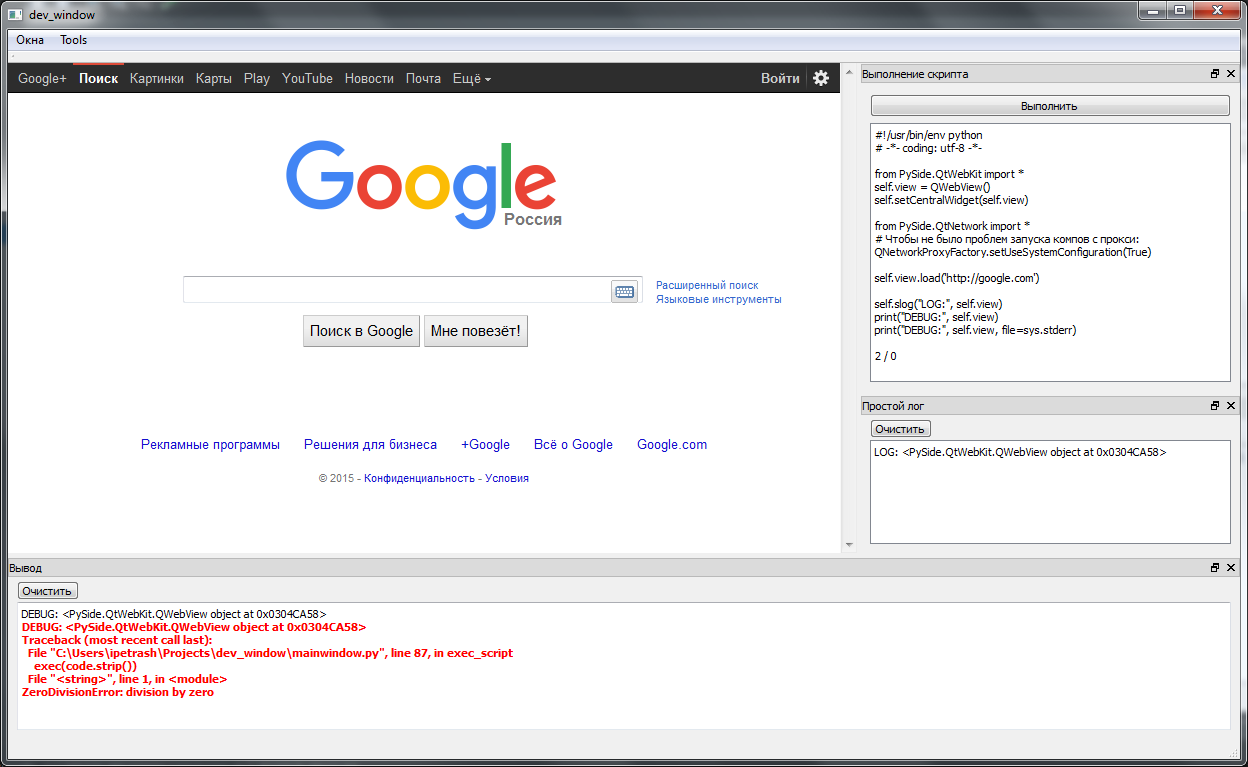
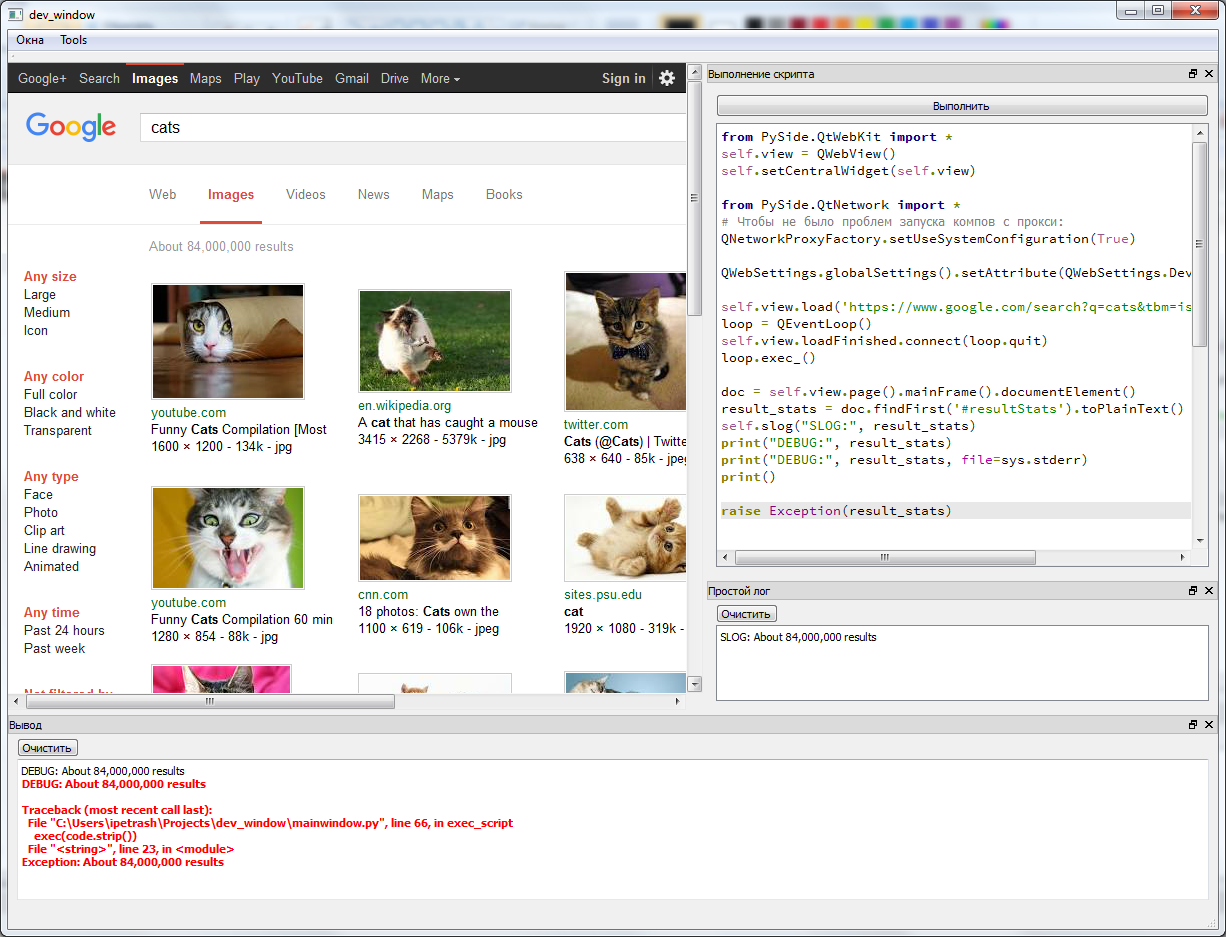
Added pyqode editor

diff --git a/mainwindow_ui.py b/mainwindow_ui.py
@@ -2,7 +2,7 @@
 
 # Form implementation generated from reading ui file 'mainwindow.ui'
 #
-# Created: Fri Dec  4 22:42:27 2015
+# Created: Fri Dec  4 23:44:29 2015
 #      by: pyside-uic 0.2.15 running on PySide 1.2.4
 #
 # WARNING! All changes made in this file will be lost!
@@ -31,17 +31,23 @@ class Ui_MainWindow(object):
         MainWindow.setStatusBar(self.statusbar)
         self.dock_widget_exec = QtGui.QDockWidget(MainWindow)
         self.dock_widget_exec.setObjectName("dock_widget_exec")
-        self.dockWidgetContents_2 = QtGui.QWidget()
-        self.dockWidgetContents_2.setObjectName("dockWidgetContents_2")
-        self.verticalLayout_2 = QtGui.QVBoxLayout(self.dockWidgetContents_2)
+        self.dock_widget_exec_contents = QtGui.QWidget()
+        self.dock_widget_exec_contents.setObjectName("dock_widget_exec_contents")
+        self.verticalLayout_2 = QtGui.QVBoxLayout(self.dock_widget_exec_contents)
         self.verticalLayout_2.setObjectName("verticalLayout_2")
-        self.button_exec = QtGui.QPushButton(self.dockWidgetContents_2)
+        self.button_exec = QtGui.QPushButton(self.dock_widget_exec_contents)
         self.button_exec.setObjectName("button_exec")
         self.verticalLayout_2.addWidget(self.button_exec)
-        self.code = QtGui.QPlainTextEdit(self.dockWidgetContents_2)
-        self.code.setObjectName("code")
-        self.verticalLayout_2.addWidget(self.code)
-        self.dock_widget_exec.setWidget(self.dockWidgetContents_2)
+        self.container_code_editor = QtGui.QScrollArea(self.dock_widget_exec_contents)
+        self.container_code_editor.setFrameShape(QtGui.QFrame.NoFrame)
+        self.container_code_editor.setWidgetResizable(True)
+        self.container_code_editor.setObjectName("container_code_editor")
+        self.scrollAreaWidgetContents = QtGui.QWidget()
+        self.scrollAreaWidgetContents.setGeometry(QtCore.QRect(0, 0, 256, 160))
+        self.scrollAreaWidgetContents.setObjectName("scrollAreaWidgetContents")
+        self.container_code_editor.setWidget(self.scrollAreaWidgetContents)
+        self.verticalLayout_2.addWidget(self.container_code_editor)
+        self.dock_widget_exec.setWidget(self.dock_widget_exec_contents)
         MainWindow.addDockWidget(QtCore.Qt.DockWidgetArea(2), self.dock_widget_exec)
         self.dock_widget_simple_log = QtGui.QDockWidget(MainWindow)
         self.dock_widget_simple_log.setObjectName("dock_widget_simple_log")

diff --git a/mainwindow.py b/mainwindow.py
@@ -16,37 +16,14 @@ from common import *
 logger = get_logger('main_window')
 
 
-import sys
-
-from PySide.QtCore import QObject, Signal
-
-
-class OutputLogger(QObject):
-    class Severity:
-        DEBUG = 0
-        ERROR = 1
-
-    def __init__(self, io_stream, severity):
-        super().__init__()
-
-        self.io_stream = io_stream
-        self.severity = severity
-
-    def write(self, text):
-        self.io_stream.write(text)
-        self.emit_write.emit(text, self.severity)
-
-    def flush(self):
-        self.io_stream.flush()
-
-    emit_write = Signal(str, int)
-
-
 OUTPUT_LOGGER_STDOUT = OutputLogger(sys.stdout, OutputLogger.Severity.DEBUG)
 OUTPUT_LOGGER_STDERR = OutputLogger(sys.stderr, OutputLogger.Severity.ERROR)
 
 sys.stdout = OUTPUT_LOGGER_STDOUT
 sys.stderr = OUTPUT_LOGGER_STDERR
+
+
+# TODO: перевести на английский
 
 
 class MainWindow(QMainWindow, QObject):
@@ -68,21 +45,23 @@ class MainWindow(QMainWindow, QObject):
 
         # Выполнение кода в окне "Выполнение скрипта"
         self.ui.button_exec.clicked.connect(self.exec_script)
+        self.code_editor = create_code_editor()
+        self.ui.container_code_editor.setWidget(self.code_editor)
 
         OUTPUT_LOGGER_STDOUT.emit_write.connect(self.write_output)
         OUTPUT_LOGGER_STDERR.emit_write.connect(self.write_output)
 
     def exec_script(self):
-        has_selected = self.ui.code.textCursor().hasSelection()
+        has_selected = self.code_editor.textCursor().hasSelection()
         if has_selected:
             # http://doc.qt.io/qt-4.8/qtextcursor.html#selectedText
             # Note: If the selection obtained from an editor spans a line break, the text will contain a
             # Unicode U+2029 paragraph separator character instead of a newline \n character. Use QString::replace()
             # to replace these characters with newlines.
-            code = self.ui.code.textCursor().selectedText()
+            code = self.code_editor.textCursor().selectedText()
             code = code.replace('\u2029', '\n')
         else:
-            code = self.ui.code.toPlainText()
+            code = self.code_editor.toPlainText()
 
         exec(code.strip())
 

diff --git a/common.py b/common.py
@@ -29,4 +29,44 @@ def get_logger(name, file='log.txt', encoding='utf8'):
     return log
 
 
+from PySide.QtCore import QObject, Signal
+
+
+class OutputLogger(QObject):
+    class Severity:
+        DEBUG = 0
+        ERROR = 1
+
+    def __init__(self, io_stream, severity):
+        super().__init__()
+
+        self.io_stream = io_stream
+        self.severity = severity
+
+    def write(self, text):
+        self.io_stream.write(text)
+        self.emit_write.emit(text, self.severity)
+
+    def flush(self):
+        self.io_stream.flush()
+
+    emit_write = Signal(str, int)
+
+
+def create_code_editor():
+    """Создаем супер крутой редактор"""
+
+    from pyqode.core import api
+    from pyqode.core import modes
+
+    editor = api.CodeEdit()
+
+    # append some modes
+    editor.modes.append(modes.PygmentsSyntaxHighlighter(editor.document()))
+    editor.modes.append(modes.CaretLineHighlighterMode())
+    editor.modes.append(modes.IndenterMode())
+
+    return editor
+
+
 CONFIG_FILE = 'config'
